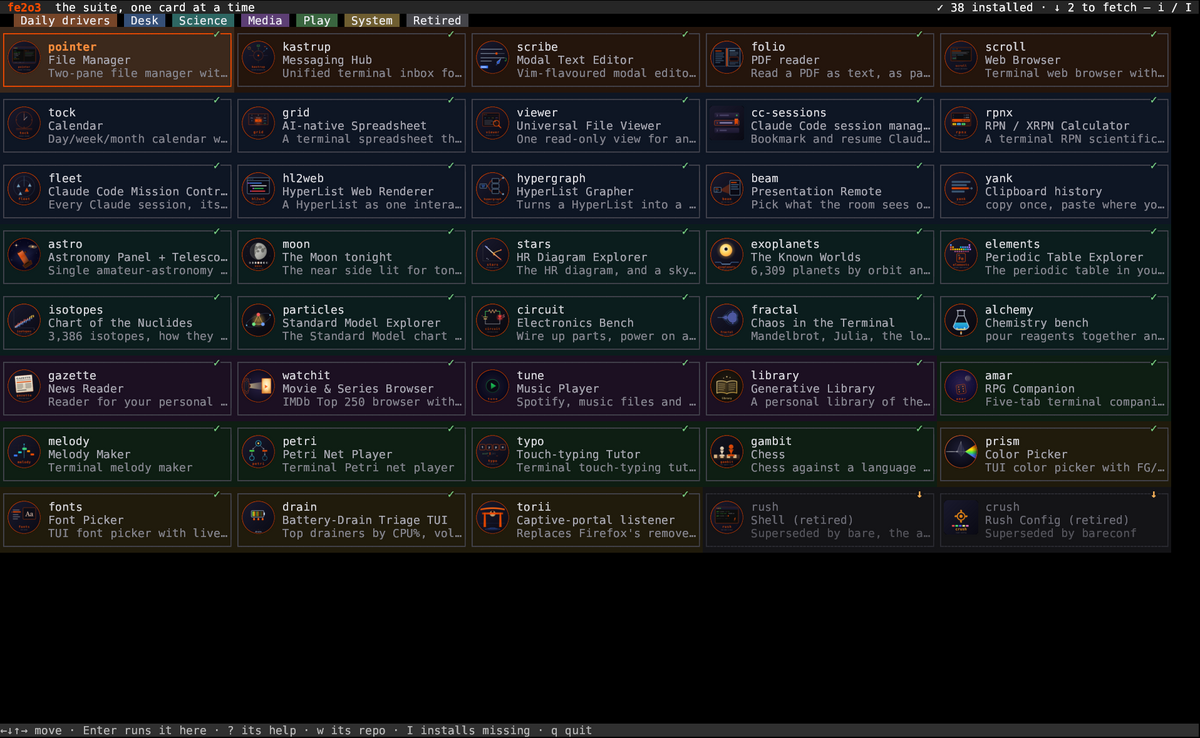
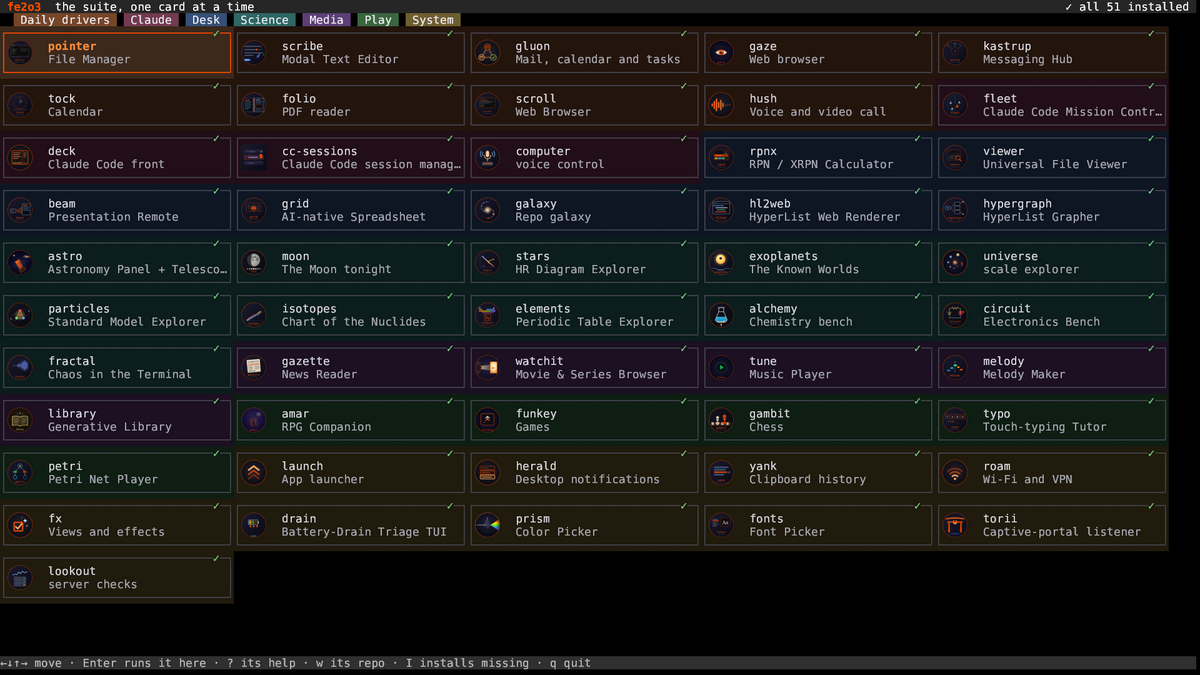
Launcher: cards of two lines, so 65 fit on one page; Esc quits (v0.1.29)
A card shows the name and the kind; the third line went, and with it 50
cards a page became 65 on a 1200-pixel screen. The README picture is new.

diff --git a/src/main.rs b/src/main.rs
@@ -57,12 +57,13 @@ const DIM_RGB: (u8, u8, u8) = (110, 110, 120);
 const BAR_BG: (u8, u8, u8) = (38, 38, 38);
 
 /// Card geometry. The logo is a square block on the left, the words sit
-/// to its right; three text rows is what a name, a kind and a hook need.
+/// to its right: the name over the kind. Two text rows, not three, so a
+/// 1200-pixel screen shows 65 cards on one page instead of 50.
 /// The width is worked out from the terminal so the grid fills it — a
 /// fixed width leaves a ragged margin on wide screens and drops a column
 /// on narrow ones.
 const CARD_MIN_W: u16 = 34;
-const CARD_H: u16 = 5;
+const CARD_H: u16 = 4;
 const LOGO_W: u16 = 6;
 const GRID_Y: u16 = 3;
 
@@ -91,7 +92,7 @@ fn main() {
                 println!("  -v     print version");
                 println!();
                 println!("In the grid: arrows move · Enter runs · i installs · I installs all missing");
-                println!("             ? help · w repo · / filter · q quit");
+                println!("             ? help · w repo · / filter · q or Esc quit");
                 return;
             }
             "-v" | "--version" => {
@@ -159,7 +160,7 @@ fn main() {
     loop {
         let Some(key) = Input::getchr(None) else { continue };
         match key.as_str() {
-            "q" => break,
+            "q" | "ESC" => break,
             "RIGHT" | "l" => step(&mut ui, 1, &mut status, cols, rows),
             "LEFT" | "h" => step(&mut ui, -1, &mut status, cols, rows),
             "DOWN" | "j" => {
@@ -486,7 +487,7 @@ fn draw_cards(ui: &mut Ui, cols: u16, rows: u16, with_images: bool) {
     }
 }
 
-/// One card: frame, name, kind, hook. The logo is painted over the left
+/// One card: frame, name and kind. The logo is painted over the left
 /// block afterwards by the image layer.
 fn card(app: &App, x: u16, y: u16, card_w: u16, selected: bool, installed: bool) -> String {
     let w = (card_w - 2) as usize;
@@ -500,7 +501,6 @@ fn card(app: &App, x: u16, y: u16, card_w: u16, selected: bool, installed: bool)
         ((45, 45, 52), DIM_RGB)
     };
     let text_rgb = if installed { (170, 170, 180) } else { DIM_RGB };
-    let blurb_rgb = if installed { (135, 135, 145) } else { (85, 85, 92) };
     let tw = w - LOGO_W as usize; // room left of the logo block
     let mut s = String::new();
     // Every segment carries the tint itself: a nested reset would drop
@@ -527,7 +527,6 @@ fn card(app: &App, x: u16, y: u16, card_w: u16, selected: bool, installed: bool)
     let lines = [
         style::rgb(&fit(app.name, tw), Some(name_rgb), Some(bg), if selected { "b" } else { "" }),
         style::rgb(&fit(app.kind, tw), Some(text_rgb), Some(bg), ""),
-        style::rgb(&fit(app.blurb, tw), Some(blurb_rgb), Some(bg), ""),
     ];
     for (i, l) in lines.iter().enumerate() {
         s.push_str(&Cursor::at(x, y + 1 + i as u16));

diff --git a/README.md b/README.md
@@ -13,7 +13,7 @@ A suite of fast, opinionated terminal tools written in Rust. Single static binar
 ## The launcher
 
 This repo also holds `fe2o3` itself: the suite as a grid of cards, one per
-app, with its logo, what it is and one line on why. Arrow keys move, Enter
+app, with its logo, its name and what it is. Arrow keys move, Enter
 runs it **in the same terminal**, `?` shows that app's own help, `w` opens
 its repo, `/` filters.
 
